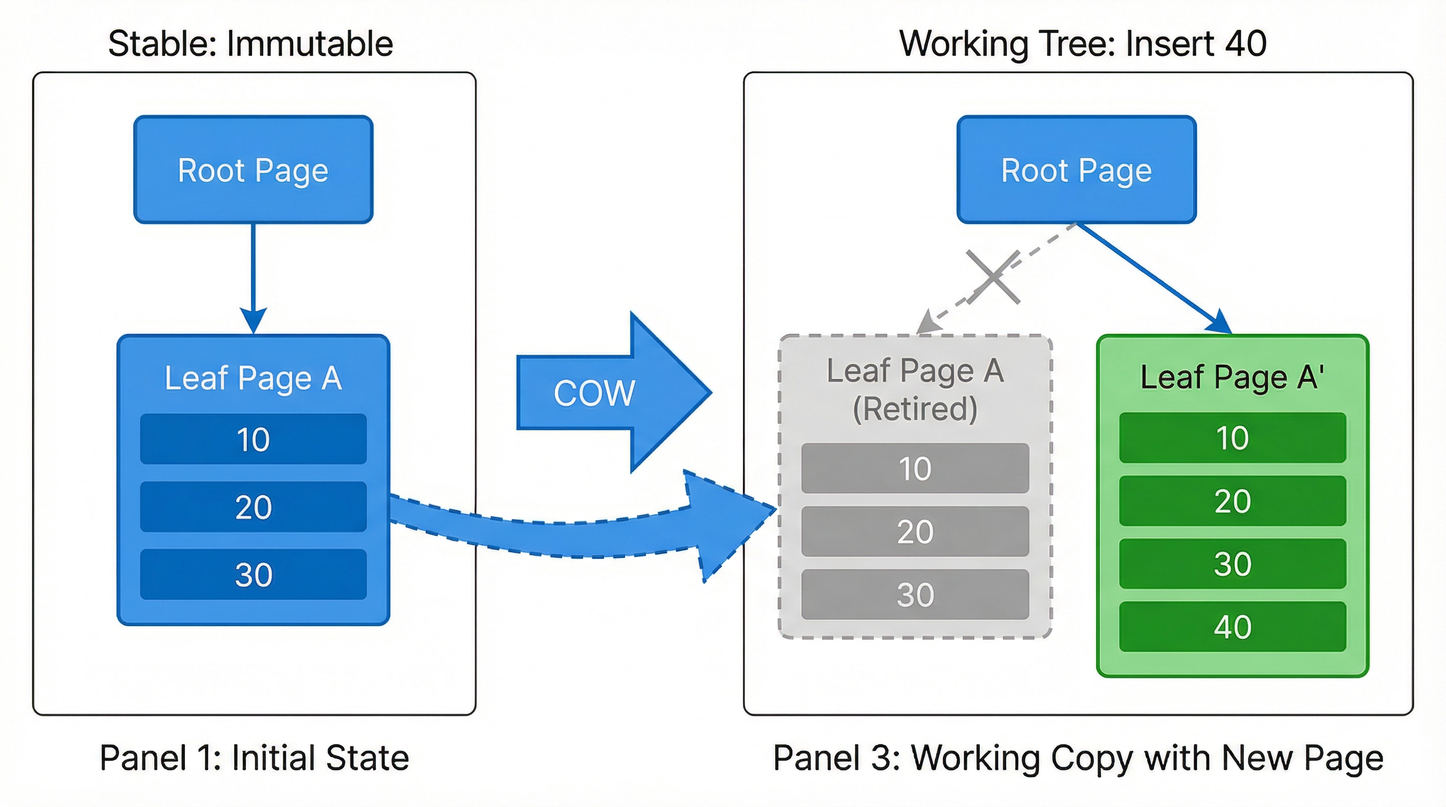
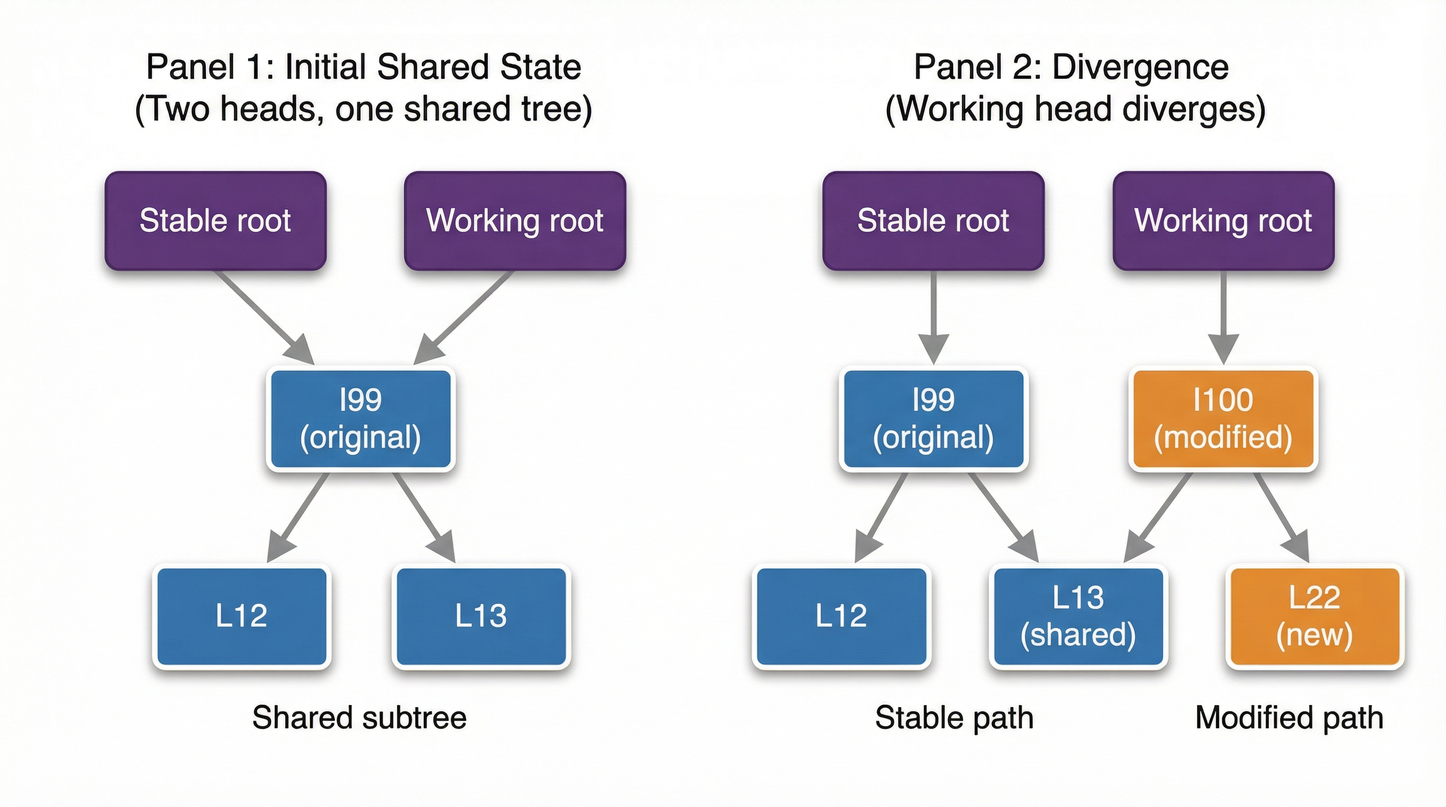
blog: refine post #6 narrative and regenerate diagrams

diff --git a/blog/06-checkpoints-and-cow/post.md b/blog/06-checkpoints-and-cow/post.md
@@ -1,27 +1,28 @@
 # Making the Tree Crash-Safe
 
-## The gap between working and safe
+## How can I make closing my laptop safe?
 
-The B+tree works. I can insert keys, they get sorted, pages split when they fill up. But there's a gap between "works" and "safe to close the laptop."
+The B+tree works. I can insert keys, they get sorted, pages split when they fill up. Now the fun starts, we need to make this thing resistant to crashes, restarts etc. Let's explore the problem.
 
-When I insert a key that triggers a split, the tree might touch four or five pages: two new leaves, a parent update, maybe a new root. Each page is a separate write to disk. If the program crashes after writing some pages but not others, the file is inconsistent. The root might point to a page that was recycled, or the tree might have orphan pages that nothing references.
+When I insert a key that triggers a split, the tree might touch four or five pages: two new leaves, a parent update, maybe a new root. Each page is a separate write to disk. If the program crashes after writing some pages but not others, the file is in an inconsistent state. The root might point to a page that was recycled, or the tree might have orphan pages that nothing references.
 
-What I need is a way to batch changes, write them all, then say "okay, now it's safe." That's a checkpoint. And to make checkpoints work without copying the whole database each time, I need copy-on-write.
+What I need is a way to batch changes and write them all-or-nothing, this way I have a consistent picture on disk. That's a checkpoint. And to make checkpoints work without copying the whole database each time, whenever we want to modify a page, we create a copy of it. This is called copy-on-write or COW (muuhhh).
 
 ## Two views of the same data
 
-The trick is to stop overwriting pages. Instead, keep two views:
+A tree is a collection of nodes and edges (I guess parent-child relationships). Now, if we make two roots point to the same set of leaves (like a hydra, multiple heads, same body), you start to understand that you can replace some pages individually and this way maintain multiple versions.
 
+In the case of WrongoDB, we have two roots:
 - **Stable root**: The last checkpoint. Immutable. If you crash, you recover here.
 - **Working root**: The current in-progress tree. This is where mutations happen.
 
-When you insert a key, you don't modify the stable page. You copy it to a new location, modify the copy, and update the working root to point there. The stable tree stays exactly as it was. The working tree accumulates new pages. When you're ready, you atomically swap the root pointer in the file header. That's the checkpoint.
+When you insert a key, you copy the original page to a new location, modify the copy, and update the working root to point there. The stable tree stays exactly as it was. The working tree accumulates new pages. When you're ready, you atomically swap the root pointer in the file header. That's the checkpoint.
 
 ![Copy-on-write: stable pages are never overwritten](images/01-cow-sequence.png)
 
 The key invariant: **once a page is part of the stable tree, it never changes**. New writes go to new pages. Old pages are "retired" and can be reclaimed after the next checkpoint.
 
-This is copy-on-write. It lets you treat the stable tree as a snapshot while you build the next one.
+This is copy-on-write. It lets you treat the stable tree as a snapshot while you build the next one. Really cool concept in my opinion.
 
 ## How a write actually works
 
@@ -87,7 +88,7 @@ A checkpoint is the moment the working tree becomes the stable tree. It's simple
 2. Sync to ensure writes are durable
 3. Atomically write the new root block ID to the file header (with a generation number and CRC)
 4. Sync again
-5. Reclaim retired blocks
+5. Reclaim retired blocks (this is unrelated, but worth mentioning there *is* a point where we reclaim some space)
 
 The atomic root swap is the durability boundary. Before step 3, a crash leaves you with the old stable tree—you lose some writes, but the file is consistent. After step 3, a crash leaves you with the new stable tree.
 
@@ -132,24 +133,4 @@ This adds complexity, but it's necessary. Without pinning, a long-running scan c
 This gives us crash consistency—after a checkpoint, the file is valid. But it's not full durability:
 
 - **WAL (Write-Ahead Logging)**: Writes between checkpoints are lost on crash. A WAL would log every operation and replay on recovery, giving durability without constant checkpointing. That's next.
-- **Concurrent transactions**: Everything is single-threaded. MVCC would let readers use the stable snapshot while writers work on the working tree.
-- **Background eviction**: Dirty pages flush during checkpoint. Production systems flush opportunistically under memory pressure.
-
-## What I shipped
-
-- Copy-on-write: every mutation allocates new blocks, stable pages are never overwritten
-- Stable vs working root tracking in the pager
-- Two-slot checkpoint header with generation + CRC for atomic swaps
-- Retired block tracking and post-checkpoint reclamation
-- Page cache with LRU eviction and pin/unpin API for safe iteration
-
-## What's next
-
-- WAL: log every operation, replay on recovery, survive crashes between checkpoints
-- Automatic checkpoint scheduling: trigger after N updates or time
-- Background page flushing: evict dirty pages before checkpoint pressure
-
-## Editing notes
-
-- Consider a concrete walkthrough: insert keys until split, show page IDs changing
-- The pinning section is brief but might need expansion if readers ask about iterator safety
+- **Concurrent transactions**: Everything is single-threaded. MVCC would let readers use the stable snapshot while writers work on the working tree. We might cover it.
